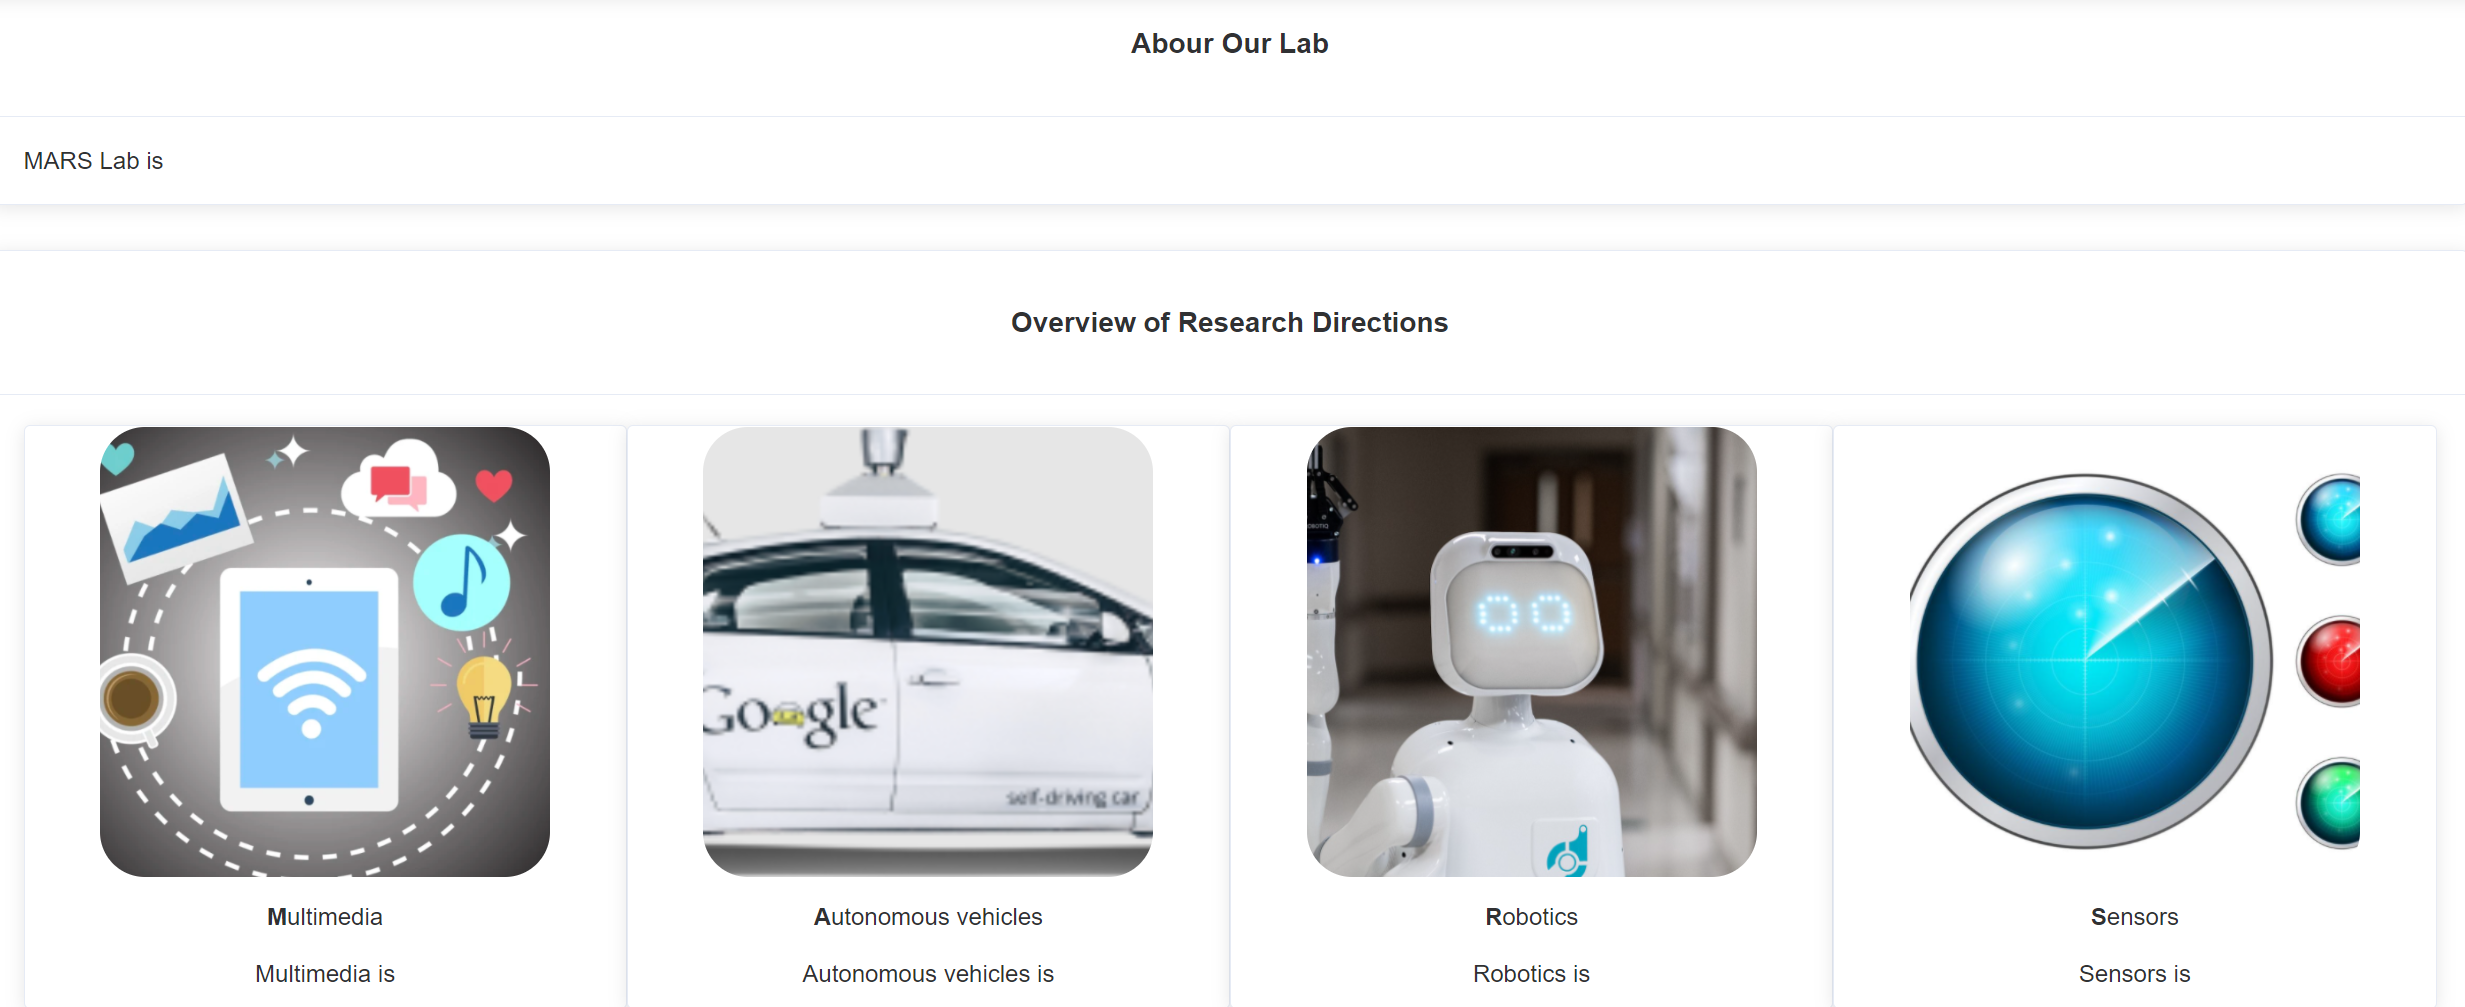
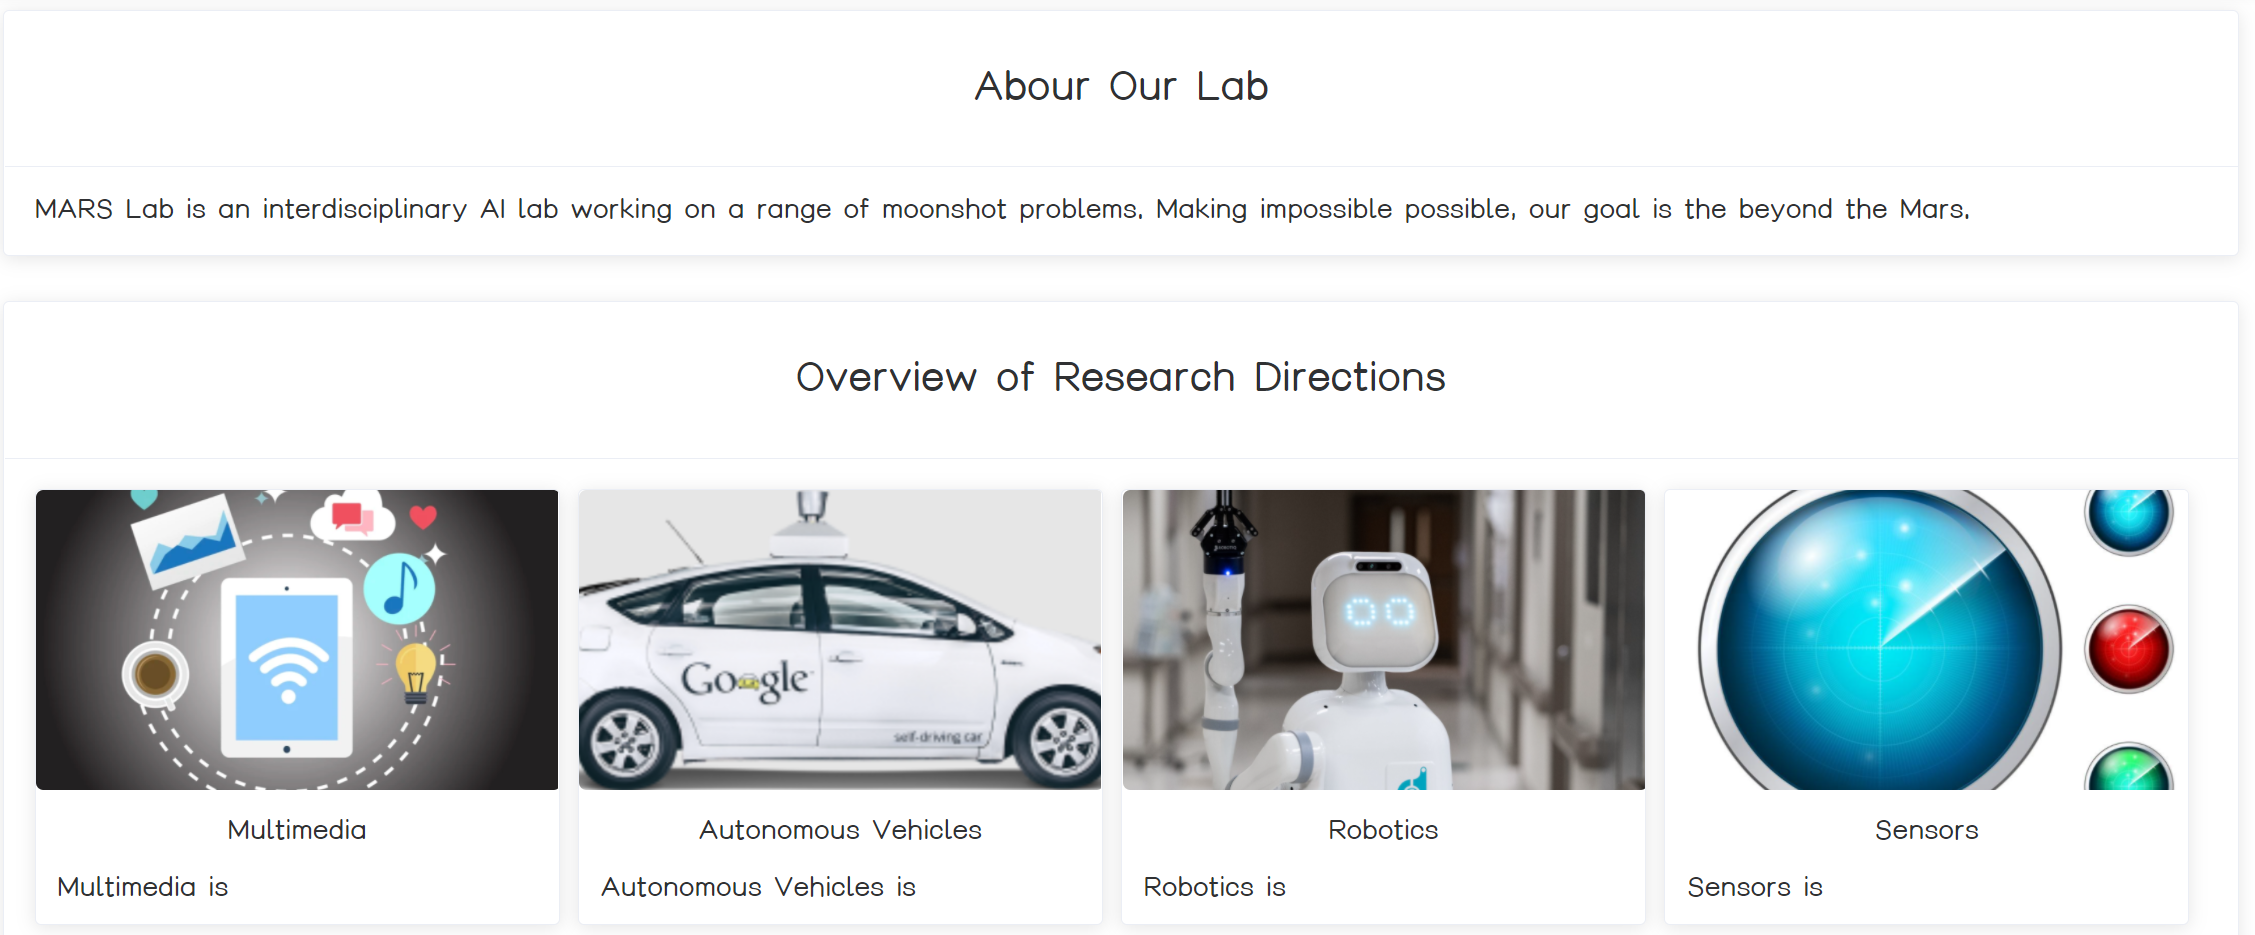
support CI/CD

diff --git a/main.js b/main.js
@@ -1,67 +1,91 @@
-var main = {
-    about_our_lab: 'MARS Lab is an interdisciplinary AI lab working on a range of moonshot problems. Making impossible possible, our goal is the beyond the Mars.',
+const main = {
+  title: 'We’re building the World’s Most Experienced MARS Lab',
 
-    overview_of_research_directions: [
-        {
-            content: 'Multimedia',
-            image: 'multimedia.png'
-        },
-        {
-            content: 'Autonomous Vehicles',
-            image: 'autonomous_vehicles.png'
-        },
-        {
-            content: 'Robotics',
-            image: 'robotics.png'
-        },
-        {
-            content: 'Sensors',
-            image: 'sensors.png'
-        },
-    ],
+  about_our_lab: 'MARS Lab is an interdisciplinary AI lab working on a range of moonshot problems. Making impossible possible, our goal is the beyond the Mars.',
 
-    about_our_leader: [
-        'Dr. Hang Zhao is an Assistant Professor at IIIS, Tsinghua University. His research interests include multi-modal machine learning, computer vision and autonomous driving.',
-        'Dr. Zhao was a Research Scientist at Waymo (known as Google\'s self-driving project). Before that, he got his Ph.D. degree at MIT under Professor Antonio Torralba.'
-    ],
+  overview_of_research_directions: [
+    {
+      title: 'Multimedia',
+      content: 'Multimedia is',
+      image: 'multimedia.png'
+    },
+    {
+      title: 'Autonomous Vehicles',
+      content: 'Autonomous Vehicles is',
+      image: 'autonomous_vehicles.png'
+    },
+    {
+      title: 'Robotics',
+      content: 'Robotics is',
+      image: 'robotics.png'
+    },
+    {
+      title: 'Sensors',
+      content: 'Sensors is',
+      image: 'sensors.png'
+    },
+  ],
 
-    graduate_students: [
-        {
-            name: 'Chenzhuang Du',
-            website: 'https://github.com/Tsinghua-MARS-Lab/',
-        },
-        {
-            name: 'Junru Gu',
-            website: 'https://github.com/Tsinghua-MARS-Lab/',
-        },
-        {
-            name: 'Chenxu Hu',
-            website: 'https://github.com/Tsinghua-MARS-Lab/',
-        },
-        {
-            name: 'Wenxiao Wang',
-            website: 'https://github.com/Tsinghua-MARS-Lab/',
-        },
-        {
-            name: 'Yichen Liu',
-            website: 'https://github.com/Tsinghua-MARS-Lab/',
-        },
-    ],
-    
-    research_assistants: [
-        {
-            name: 'Zihui Xue',
-            website: 'https://github.com/Tsinghua-MARS-Lab/',
-        },
-        {
-            name: 'Tingle Li',
-            website: 'https://github.com/Tsinghua-MARS-Lab/',
-        },
-        {
-            name: 'Tianyu Hua',
-            website: 'https://github.com/Tsinghua-MARS-Lab/',
-        },
-    ],
-    
-    alumni: [],
+  about_our_leader: [
+    'Dr. Hang Zhao is an Assistant Professor at IIIS, Tsinghua University. His research interests include multi-modal machine learning, computer vision and autonomous driving.',
+    'Dr. Zhao was a Research Scientist at Waymo (known as Google\'s self-driving project). Before that, he got his Ph.D. degree at MIT under Professor Antonio Torralba.'
+  ],
+
+  graduate_students: [
+    {
+      name: 'Chenzhuang Du',
+      website: '',
+      content: 'Chenzhuang DuChenzhuang DuChenzhuang DuChenzhuang DuChenzhuang DuChenzhuang DuvChenzhuang Du',
+      image: '',
+    },
+    {
+      name: 'Junru Gu',
+      website: 'https://github.com/GentleSmile',
+      content: 'Junru Gu is a fourth year undergraduate student at Tsinghua University. He will be a graduate student in the fall of 2021.',
+      image: 'gujunru.png',
+    },
+    {
+      name: 'Chenxu Hu',
+      website: '',
+      content: 'Dr. Hang Zhao is an Assistant Professor at IIIS, Tsinghua University. His research interests include multi-modal machine learning, computer vision and autonomous driving.',
+      image: '',
+    },
+    {
+      name: 'Wenxiao Wang',
+      website: '',
+      content: '',
+      image: '',
+    },
+    {
+      name: 'Yichen Liu',
+      website: '',
+      content: '',
+      image: '',
+    },
+  ],
+
+  research_assistants: [
+    {
+      name: 'Zihui Xue',
+      website: 'https://github.com/Tsinghua-MARS-Lab/',
+      content: '',
+      image: '',
+    },
+    {
+      name: 'Tingle Li',
+      website: 'https://github.com/Tsinghua-MARS-Lab/',
+      content: '',
+      image: '',
+    },
+    {
+      name: 'Tianyu Hua',
+      website: 'https://github.com/Tsinghua-MARS-Lab/',
+      content: '',
+      image: '',
+    },
+  ],
+
+  alumni: [],
 }
+
+export default main

diff --git a/README.md b/README.md
@@ -1,11 +1,22 @@
 # THU-MARS-Web
 
-## 使用方式
+Preview: http://101.6.96.177:9526/
+
+TODO:
+- [ ] add SSL certificate
+- [ ] show CI/CD on github
+
+## Usage
+
+将修改的内容push到主分支之后，网站会自动加载修改的内容，一分钟之后Preview会更新，github对服务器的访问超时或者服务器对github的访问超时都会导致Preview无法及时更新。
+
 
 ### 文字修改
 例如，当需要修改下图中的Multimedia的介绍时，在main.js中找到overview_of_research_directions→content，修改对应的值即可。
 
+> 如果内容中包含引号，需要在引号前添加转义字符 '\'
+
 ### 图片修改
 例如，当需要修改下图中的Multimedia的图片时，将想要的图片放在images目录下，然后在main.js中找到overview_of_research_directions→image，将对应的值修改为图片的文件名。
 
-![img.png](img.png)
+![img_1.png](img.png)
